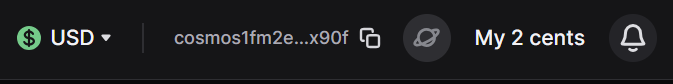
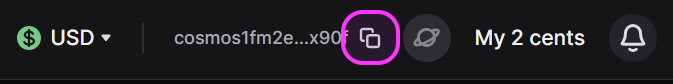
Add click zones to screenshots.

Changed region(s): [[0.4993, 0.119, 0.5929, 0.7857]]

diff --git a/academy/1-what-is-cosmos/4-atom-staking.md b/academy/1-what-is-cosmos/4-atom-staking.md
@@ -258,7 +258,7 @@ If you like the validator's information, click on it. This opens a tab that reca
 
 Click on _Stake_. This opens a window for you to enter an amount. Add the sum you want to delegate. Do not delegate all that you own, because you need a fraction of ATOM to send the transaction, plus further ATOM in the future to either un-delegate or claim your rewards.
 
-Pick 0.8 ATOM and click _Delegate_ again:
+Pick 0.8 ATOM and click _Stake_ again:
 
 ![Keplr: delegate parameters](/academy/1-what-is-cosmos/images/keplr-delegate-params.png)
 
